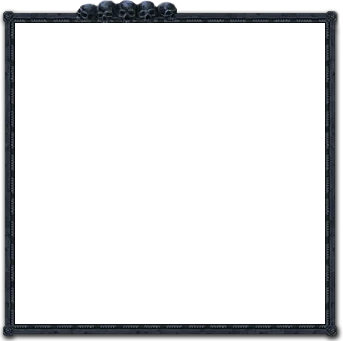
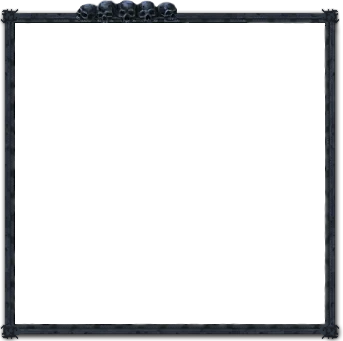
feat: restyled majority of UI

diff --git a/scss/skin-naggaroth.scss b/scss/skin-naggaroth.scss
@@ -1,7 +1,11 @@
+@import "cursor-naggaroth";
+
 .skin-naggaroth {
 	body {
 		background: url(../ui/naggaroth/background.webp) repeat;
 	}
+
+
 
 	#players {
 		border-image: url(../ui/naggaroth/players-border.webp) 21 repeat;
@@ -10,7 +14,265 @@
 		border-image-outset: 22px 17px 16px 14px;
 	}
 
-	#hotbar #action-bar #macro-list{
+	#hotbar #action-bar #macro-list {
+		flex: 0 0 510px;
+		height: 100%;
+		list-style: none;
+		margin: 0 0px;
+		padding: 5px 0px 4px 0px;
+		border: none;
+		border-radius: 4px;
+		justify-content: center;
 		background: url(../ui/naggaroth/frames/hotkeybox-macro-list.webp);
+		box-shadow: 2px 2px 5px #000000;
 	}
+
+	#hotbar #action-bar .macro {
+		border-image: url(../ui/naggaroth/frames/hotkeybox.webp) 21 repeat;
+		border-image-slice: 6 6 6 6 fill;
+		border-image-width: 6px 6px 6px 6px;
+		border-image-outset: 0px 0px 0px 0px;
+		border-radius: 0px;
+	}
+
+	#pause > img {
+		content: url(../ui/naggaroth/khaine.webp);
+		height: 256px;
+		width: 256px;
+		top: -75px;
+		left: calc(50% - 132px);
+	}
+
+
+	#sidebar {
+		background: url(../ui/naggaroth/sidebar.webp) repeat;
+	}
+
+	#sidebar-tabs {
+		display: flex;
+		flex: none;
+		flex-direction: row;
+		flex-wrap: nowrap;
+		justify-content: space-evenly;
+		position: relative;
+		top: 0px;
+		left: 1x;
+		width: 392px;
+		height: 52px;
+		margin: 0px;
+		padding: 0px 4px 0px 4px;
+		border: none;
+		box-shadow: none;
+		background: url(../ui/naggaroth/sidebar-border.webp) repeat;
+	}
+
+	.sidebar-popout button, .sidebar-tab .directory-footer button, #macros .directory-footer button, #macros .directory-footer button, #sidebar button, #sidebar .header-actions button, .action-buttons button {
+		margin: 0px 5px 6px 5px !important;
+		padding: 2px 0px 0px 0px;
+		height: 34px;
+		border: 1px solid black;
+		border-image: url(../ui/naggaroth/footer-button.webp) 10 repeat;
+		border-image-width: 4px;
+		border-image-outset: 0px;
+		box-shadow: 4px 4px 1px #00000085;
+		background: url(../ui/naggaroth/sidebar_button-background_red.webp) repeat;
+		background-origin: padding-box;
+		color: #dadada;
+		font-family: CaslonAntique;
+		font-size: var(--font-size-20);
+		font-weight: 500;
+		text-shadow: 0px 0px 1px #00000063;
+	}
+
+	#chat-form {
+		min-height: 150px;
+		position: relative;
+		bottom: 0px;
+		right: 0px;
+		display: flex;
+		margin: 0px;
+		background: url(../ui/frames/parchment-texture.webp) repeat;
+		border: 1px solid black;
+		border-image: url(../ui/naggaroth/chat-form-border.webp) 10 repeat;
+		border-image-width: 10px;
+		border-image-outset: 0px 0px;
+		box-shadow: inset 0 0 40px #000000;
+	}
+
+	#controls .scene-control.active, #controls .control-tool.active, #controls .scene-control:hover, #controls .control-tool:hover {
+		cursor: default;
+		color: #FFF;
+		background: url(../ui/naggaroth/sidebar_button-background_red.webp) repeat !important;
+		background-origin: padding-box !important;
+		border-image: url(../ui/naggaroth/footer-button.webp) 10 repeat !important;
+		border-image-width: 4px !important;
+		border-image-outset: 0px !important;
+		box-shadow: 0 0 3px #ff6400 !important;
+	}
+
+	#hotbar .bar-controls {
+		background: #000000de;
+		box-shadow: 0 0 4px black;
+		border-radius: 16px;
+		border: 2px solid #3d14bdc2;
+	}
+
+	#navigation #scene-list .scene.view, #navigation #scene-list .scene.context {
+		cursor: default;
+		color: #FFF;
+		background: url(../ui/naggaroth/sidebar_button-background_red.webp) repeat;
+		background-origin: padding-box;
+		border-image: url(../ui/naggaroth/footer-button.webp) 10 repeat;
+		border-image-width: 4px;
+		border-image-outset: 0px;
+		box-shadow: 0 0 3px #ff6400;
+	}
+
+	#sidebar.collapsed {
+		width: 50px !important;
+		height: 400px !important;
+		position: absolute;
+		top: 15px;
+		right: -1px;
+		padding: 19px 0px 0px 2px;
+		margin: 3px 0px 0px 0px;
+		border: 1px solid black;
+		border-image: url(../ui/frames/naggaroth/sidebar-collapsed.webp);
+		border-image-slice: 9 fill;
+		border-image-width: 9px;
+		border-image-outset: 0px 0px 0px 0px;
+		border-image-repeat: repeat;
+		border-top-left-radius: 7px;
+		border-bottom-left-radius: 7px;
+		box-shadow: -2px 0px 8px #000;
+	}
+
+	#navigation #scene-list .scene.nav-item {
+		cursor: default;
+		color: #FFF;
+		background: url(../ui/sidebar_button-background_cyan.webp) repeat;
+		background-origin: padding-box;
+		border-image: url(../ui/naggaroth/footer-button.webp) 10 repeat;
+		border-image-width: 4px;
+		border-image-outset: 0px;
+		font-family: CaslonPro;
+		font-weight: 500;
+		font-size: var(--font-size-14);
+		padding-top: 2px;
+	}
+
+	#sidebar-tabs > [data-tab~="chat"] {
+		background: url(../ui/naggaroth/sidebar-button-chat.webp);
+	}
+	#sidebar-tabs > [data-tab~="chat"].active i {
+		background: url(../ui/naggaroth/sidebar-button-chat-active.webp);
+	}
+
+
+	#sidebar-tabs > [data-tab~="combat"] {
+		background: url(../ui/naggaroth/sidebar-button-combat.webp);
+	}
+	#sidebar-tabs > [data-tab~="combat"].active i {
+		background: url(../ui/naggaroth/sidebar-button-combat-active.webp);
+	}
+
+
+	#sidebar-tabs > [data-tab~="scenes"] {
+		background: url(../ui/naggaroth/sidebar-button-scenes.webp);
+	}
+	#sidebar-tabs > [data-tab~="scenes"].active i {
+		background: url(../ui/naggaroth/sidebar-button-scenes-active.webp);
+	}
+
+
+	#sidebar-tabs > [data-tab~="actors"] {
+		background: url(../ui/naggaroth/sidebar-button-actors.webp);
+	}
+	#sidebar-tabs > [data-tab~="actors"].active i {
+		background: url(../ui/naggaroth/sidebar-button-actors-active.webp);
+	}
+
+
+	#sidebar-tabs > [data-tab~="items"] {
+		background: url(../ui/naggaroth/sidebar-button-items.webp);
+	}
+	#sidebar-tabs > [data-tab~="items"].active i {
+		background: url(../ui/naggaroth/sidebar-button-items-active.webp);
+	}
+
+
+	#sidebar-tabs > [data-tab~="journal"] {
+		background: url(../ui/naggaroth/sidebar-button-journal.webp);
+	}
+	#sidebar-tabs > [data-tab~="journal"].active i {
+		background: url(../ui/naggaroth/sidebar-button-journal-active.webp);
+	}
+
+
+	#sidebar-tabs > [data-tab~="tables"] {
+		background: url(../ui/naggaroth/sidebar-button-tables.webp);
+	}
+	#sidebar-tabs > [data-tab~="tables"].active i {
+		background: url(../ui/naggaroth/sidebar-button-tables-active.webp);
+	}
+
+
+	#sidebar-tabs > [data-tab~="cards"] {
+		background: url(../ui/naggaroth/sidebar-button-cards.webp);
+	}
+	#sidebar-tabs > [data-tab~="cards"].active i {
+		background: url(../ui/naggaroth/sidebar-button-cards-active.webp);
+	}
+
+
+	#sidebar-tabs > [data-tab~="playlists"] {
+		background: url(../ui/naggaroth/sidebar-button-playlists.webp);
+	}
+	#sidebar-tabs > [data-tab~="playlists"].active i {
+		background: url(../ui/naggaroth/sidebar-button-playlists-active.webp);
+	}
+
+
+	#sidebar-tabs > [data-tab~="compendium"] {
+		background: url(../ui/naggaroth/sidebar-button-compendium.webp);
+	}
+	#sidebar-tabs > [data-tab~="compendium"].active i {
+		background: url(../ui/naggaroth/sidebar-button-compendium-active.webp);
+	}
+
+
+	#sidebar-tabs > [data-tab~="settings"] {
+		background: url(../ui/naggaroth/sidebar-button-settings.webp);
+	}
+	#sidebar-tabs > [data-tab~="settings"].active i {
+		background: url(../ui/naggaroth/sidebar-button-settings-active.webp);
+	}
+
+	#sidebar-tabs > .collapse {
+		display: inline-block;
+		flex: none;
+		height: 30px;
+		width: 30px;
+		margin: 0px;
+		padding: 0px;
+		color: #ff000000;
+		border: none;
+		border-radius: 0px;
+		position: relative;
+		top: 8px;
+		position: relative;
+		top: 8px;
+		left: 0px;
+		height: 30px;
+		width: 30px;
+		border-radius: 0px;
+		box-shadow: none;
+		border: none;
+		border-bottom: none;
+		text-shadow: 0 0 10px #ff000000;
+		visibility: visible;
+		background: url(../ui/naggaroth/sidebar-button-settings-active.webp);
+		background: url(../ui/naggaroth/sidebar-button-collapse.webp);
+	}
+
 }

diff --git a/scss/cursor-naggaroth.scss b/scss/cursor-naggaroth.scss
@@ -1,0 +1,110 @@
+.skin-naggaroth {
+
+	.chat-card-button {
+		cursor: url(../ui/naggaroth/cursors/pointer.png), pointer;
+	}
+
+	body {
+		cursor: url(../ui/naggaroth/cursors/normal.png), default;
+	}
+
+	a {
+		cursor: url(../ui/naggaroth/cursors/pointer.png), pointer;
+	}
+
+	.draggable {
+		cursor: url(../ui/naggaroth/cursors/drag.png), move;
+	}
+
+	#hotbar .macro {
+		cursor: url(../ui/naggaroth/cursors/pointer.png), pointer;
+	}
+
+	#playlists-popout .global-volume::-webkit-slider-thumb,
+	#sidebar #playlists .global-volume::-webkit-slider-thumb {
+		cursor: url(../ui/naggaroth/cursors/pointer.png), pointer;
+	}
+
+	#playlists-popout li.playlist:not(:first-of-type) li.sound .sound-volume::-webkit-slider-thumb,
+	#sidebar #playlists li.playlist:not(:first-of-type) li.sound .sound-volume::-webkit-slider-thumb {
+		cursor: url(../ui/naggaroth/cursors/pointer.png), pointer;
+	}
+
+	#sidebar #settings button {
+		cursor: url(../ui/naggaroth/cursors/pointer.png), pointer;
+	}
+
+	.app.window-app.sheet.wfrp4e.actor.character-sheet .tab.main.active .main-row .movement.row-section .move-value .auto-calc-toggle {
+		cursor: url(../ui/naggaroth/cursors/pointer.png), pointer;
+	}
+
+	.app.window-app.sheet.wfrp4e.actor.npc-sheet .main-row .movement.row-section .move-value .auto-calc-toggle {
+		cursor: url(../ui/naggaroth/cursors/pointer.png), pointer;
+	}
+
+	.app.window-app.sheet.wfrp4e.actor.creature-sheet .main-row .movement.row-section .move-value .auto-calc-toggle {
+		cursor: url(../ui/naggaroth/cursors/pointer.png), pointer;
+	}
+
+	#navigation #scene-list .scene.view, #navigation #scene-list .scene.context {
+		cursor: url(../ui/naggaroth/cursors/normal.png), default;
+	}
+
+	#navigation #nav-toggle {
+		cursor: url(../ui/naggaroth/cursors/normal.png), default;
+	}
+
+	#navigation #scene-list .scene.nav-item {
+		cursor: url(../ui/naggaroth/cursors/normal.png), default;
+	}
+
+	#controls .scene-control.active, #controls .control-tool.active, #controls .scene-control:hover, #controls .control-tool:hover {
+		cursor: url(../ui/naggaroth/cursors/normal.png), default;
+	}
+
+	#controls .scene-control, #controls .control-tool {
+		cursor: url(../ui/naggaroth/cursors/pointer.png), pointer !important;
+		cursor: url(../ui/naggaroth/cursors/normal.png), default !important;
+	}
+
+	.app.window-app .form-group input[type="range"]::-webkit-slider-thumb {
+		cursor: url(../ui/naggaroth/cursors/pointer.png), pointer;
+	}
+
+	.token-sheet .tab[data-tab="image"] input[type="range"]::-webkit-slider-thumb {
+		cursor: url(../ui/naggaroth/cursors/pointer.png), pointer;
+	}
+
+	#drawing-config .tab[data-tab="image"] input[type="range"]::-webkit-slider-thumb {
+		cursor: url(../ui/naggaroth/cursors/pointer.png), pointer;
+	}
+
+	.metacurrency-value {
+		cursor: url(../ui/naggaroth/cursors/pointer.png), pointer;
+	}
+
+	.overcast-button,
+	.chargen-button {
+		cursor: url(../ui/naggaroth/cursors/pointer.png), pointer;
+	}
+
+	#effects-config .flex2::-webkit-slider-thumb {
+		cursor: url(../ui/naggaroth/cursors/pointer.png), pointer;
+	}
+
+	#client-settings .window-content form .form-group > label,
+	#client-settings .window-content form .form-group select,
+	#client-settings .form-group input,
+	.app.window-app .form-group label,
+	#sidebar .sidebar-tab #chat-controls div.roll-type-select select,
+	#sidebar .sidebar-tab #chat-controls div.roll-type-select i.fas {
+		cursor: url(../ui/naggaroth/cursors/normal.png), default;
+	}
+
+	#client-settings section.content .submenu > button,
+	#client-settings .window-content button label,
+	form .form-group .form-fields button,
+	form button {
+		cursor: url(../ui/naggaroth/cursors/pointer.png), pointer;
+	}
+}
